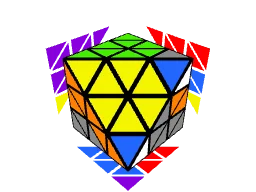
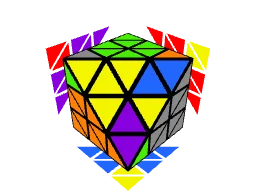
Adding TCP and  Medium difficulty tag

diff --git a/src/scripts/puzzle-viewer.ts b/src/scripts/puzzle-viewer.ts
@@ -47,7 +47,8 @@ function activate(host: HTMLElement): void {
 			player.setAttribute('puzzle', puzzle);
 			player.setAttribute('alg', alg);
 			if (setupAlg) player.setAttribute('experimental-setup-alg', setupAlg);
-			player.setAttribute('hint-facelets', 'none');
+			// data-hint-facelets omitted => twisty default (hints shown)
+			if (host.dataset.hintFacelets) player.setAttribute('hint-facelets', host.dataset.hintFacelets);
 			player.setAttribute('background', 'none');
 			player.style.width = '256px';
 			player.style.height = '192px';

diff --git a/src/styles/global.css b/src/styles/global.css
@@ -22,3 +22,21 @@ li:has(.sl-badge.default) > a {
 	color: #fff;
 	border-color: #fff;
 }
+
+[data-theme="light"] .sl-badge.default {
+	background: #bcbcbc;
+	color: #000000;
+	border-color: #4a4a4a;
+}
+
+[data-theme="light"] .sl-badge.caution {
+	background: #ffc57a;
+	color: #902a08;
+	border-color: #c36624;
+}
+
+[data-theme="light"] .sl-badge.tip {
+	background: #8000ff;
+	color: #ffffff;
+	border-color: #000000;
+}

diff --git a/AGENTS.md b/AGENTS.md
@@ -3,8 +3,8 @@
 Bencisco FTO — method tutorial + alg database. Astro 7 + Starlight, Tailwind CSS v4 (`@tailwindcss/vite`), static output, no backend.
 
 - `src/content/docs/` — MDX pages (Starlight content root). Sidebar is configured manually in `astro.config.mjs`. Advanced pages get a sidebar badge via frontmatter; advanced subsections use `<details>`.
-- `src/data/*.yaml` — alg databases, zod-validated via the `algs` collection in `src/content.config.ts`. Each case: `alg` (Twizzle notation — drives the applet), `showcase_alg` (community notation — the written alg shown to the user, bold), `showcase_label` (optional colored prefix for the showcase alg, e.g. `"EIF"` / `"CIF -> EIF"`), `eif_alg` (Edge-in-Front notation, non-bold with `(EIF)` colored prefix; `eif_label` overrides the label text), `name` (prominent label), `family` (small secondary label). Optional per-file `setup_prefix` (e.g. `"Rv T"` on last-layer files) is prepended to each case's setup-alg so yellow is on top; a case-level `preset` field overrides it for individual cases. Optional per-file `top_down: true` (1ll3t, olp, tcp) renders thumbnails from a raised top-down camera angle instead of the default flat face-on view. In `1ll3t.yaml`, showcase algs use CIF community notation (`S`/`H` = sledge/hedge, `{X,Y}` = reorient with X on top and Y in front, `[U]` = pre-AUF, `Rs`/`Fs` = slice suffixes); the `alg` field holds the same alg resolved to plain Twizzle CIF moves (community→Twizzle face map: F→BL, B→R, L→B, R→L, BL→BR, BR→F).
-- `src/components/PuzzleViewer.astro` — thumbnail-first FTO viewer; `cubing/twisty` is dynamically imported on click (never in the initial bundle). Use direct embed (no `thumbnail` prop) only on low-density pages.
+- `src/data/*.yaml` — alg databases, zod-validated via the `algs` collection in `src/content.config.ts`. Each case: `alg` (Twizzle notation — drives the applet), `showcase_alg` (community notation — the written alg shown to the user, bold), `showcase_label` (optional colored prefix for the showcase alg, e.g. `"EIF"` / `"CIF -> EIF"`), `eif_alg` (Edge-in-Front notation, non-bold with `(EIF)` colored prefix; `eif_label` overrides the label text), `name` (prominent label), `family` (small secondary label). Optional per-file `setup_prefix` (e.g. `"LBLv"` on last-layer files) is prepended to each case's setup-alg so yellow is on top; a case-level `preset` field overrides it for individual cases. Optional per-file `top_down: true` (1ll3t, olp, tcp) renders thumbnails from a raised top-down camera angle instead of the default flat face-on view. In `1ll3t.yaml`, showcase algs use CIF community notation (`S`/`H` = sledge/hedge, `{X,Y}` = reorient with X on top and Y in front, `[U]` = pre-AUF, `Rs`/`Fs` = slice suffixes); the `alg` field holds the same alg resolved to plain Twizzle CIF moves (community→Twizzle face map: F→BL, B→R, L→B, R→L, BL→BR, BR→F). `tcp.yaml` was converted with the same pipeline and validated 1:1 against the 1ll3t T-family states (see `tx/tcp-conversion.md`); extra alg variants are shown via `showcase_alg1`, `showcase_alg2`, ...
+- `src/components/PuzzleViewer.astro` — thumbnail-first FTO viewer; `cubing/twisty` is dynamically imported on click (never in the initial bundle). Use direct embed (no `thumbnail` prop) only on low-density pages. `hintFacelets` prop (also on `AlgTable`/`CaseCard`) keeps twisty's hint facelets on instead of forcing `hint-facelets="none"` (used on the TCP page).
 - `public/thumbnails/<case-id>.webp` — per-case previews (unsolved case state), generated by `npm run imgs` (screenshots `/thumbnail-renderer/` via playwright-core + system Chrome; falls back to `placeholder.svg` when missing). Re-run after editing YAML data.
 
 ## Development
